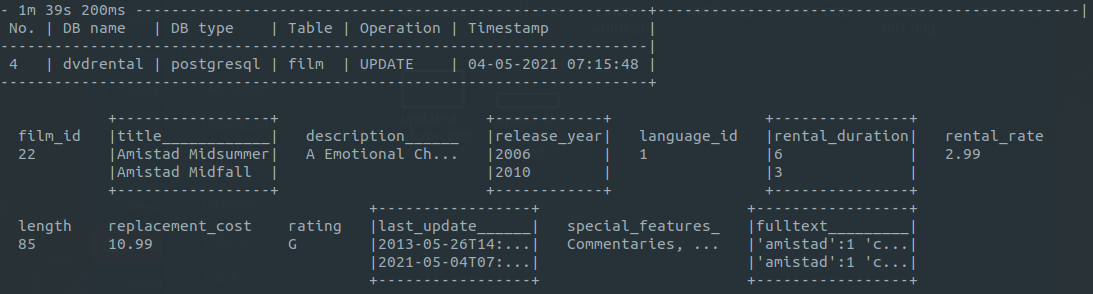
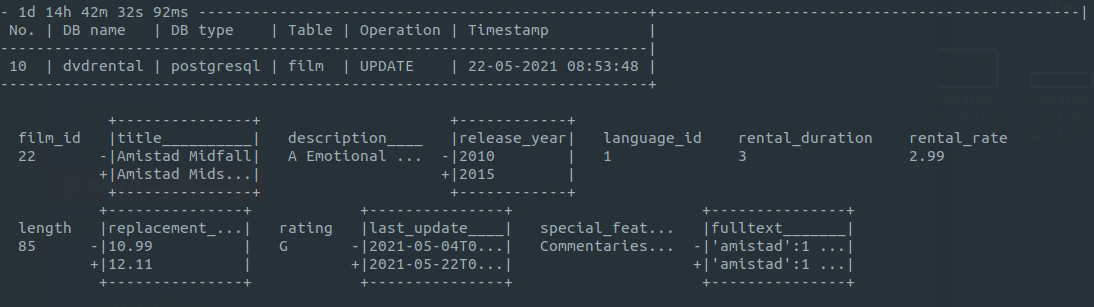
Update docs.

diff --git a/README.md b/README.md
@@ -19,8 +19,8 @@ database:
     user      : christoph
     password  : pwd1234
 settings:
-    operationsLimit: 10000
     operationsMinimum: 100
+    operationsLimit: 10000
 tables:
     - film
     - actor
@@ -40,8 +40,8 @@ database:
     password            : pwd1234
     driverPath          : /home/christoph/dbw/lib/ojdbc7.jar
 settings:
-    operationsLimit: 10000
     operationsMinimum: 100
+    operationsLimit: 10000
 tables:
     - FILM
     - ACTOR
@@ -59,9 +59,9 @@ The `schema` is specific for PostgreSQL and is set to `public` by default.
 The `driverPath` mapping is optional and is an easier way of adding a JDBC driver to the classpath; when specified, the relevant driver class will be loaded at runtime, without the need of using the `cp` flag in the `java` command. The provided value has to be an absolute path. 
 
 There are two available mappings in the `settings` dictionary:  
-`operationsLimit` - the maximum number of operations stored in the audit table. When this limit is reached, Dbw will automatically delete the given number of records from the audit table.  
-`operationsMinimum` - the number of operations that will remain in the audit table after deletion caused by the exceeded limit.  
-To further explain the mappings described above, if for example `operationsLimit` is set to 10,000 and the `operationsMinimum` is 100, the operations count in the audit table will have to reach 10,100 until Dbw deletes 10,000 first records specified in `operationsLimit`. Effectively the limit is 10,100, because we're taking into account the minimum number of records that must remain in the audit table. 
+`operationsMinimum` - the number of operations that will remain in the audit table after the deletion caused by the exceeded limit.  
+`operationsLimit` - the maximum number of operations stored in the audit table. When this limit is reached, Dbw will automatically delete the given number of records reduced by the `operationsMinimum` value the from the audit table.  
+To further explain the mappings described above, if for example `operationsLimit` is set to 10 000, the `operationsMinimum` is 100 and the registered operations count reaches 10 000, then 9 900 operations will be deleted from the audit table.   
 
 ## Usage
 
@@ -89,8 +89,9 @@ To close the application, press Ctrl+C.
 ### CLI
 
 ```
- -c,--config <arg>                        provide one or more comma-separated
-                                          paths to configuration files
+ -c,--config <arg>                        provide one or more
+                                          comma-separated paths to
+                                          configuration files
  -C,--clear-cache                         clear the given config's cache
  -d,--debug                               show exception classes and stack
                                           traces
@@ -102,7 +103,7 @@ To close the application, press Ctrl+C.
                                           whether there were changes in
                                           the watched databases (default:
                                           500ms)
- -l,--latest-changes <arg>                show the latest operations after
+ -l,--latest <arg>                        show the latest operations after
                                           the app starts. Accepts a number
                                           or a number combined with the
                                           seconds, minutes or hours
@@ -116,10 +117,12 @@ To close the application, press Ctrl+C.
                                           --latest-changes flag value and
                                           close the application (don't
                                           start the watchers)
- -p,--purge                               remove database audit table,
-                                          functions and triggers
+ -p,--purge                               remove all database objects
+                                          created by the application
  -q,--query                               show the SQL query for each
                                           operation (PostgreSQL only)
+ -R,--reuse-config                        reuse the last chosen config
+                                          file paths
  -t,--tables <arg>                        narrow down the tables you'd
                                           like to watch, accepts a single
                                           table or comma-separated list of
@@ -127,7 +130,8 @@ To close the application, press Ctrl+C.
  -T,--time-diff-separator-min-val <arg>   specify the time in milliseconds
                                           after which a time difference
                                           separator will appear between
-                                          two operation outputs (default: 5000)
+                                          operation outputs (default:
+                                          5000)
  -V,--verbose-diff                        show verbose output, i.e. with
                                           full before and after states of
                                           column values that exceeded the
@@ -205,11 +209,11 @@ The SQL query that caused the given operation is shown below the header table wh
 
 Next are the modified table's columns with their values, organized into rows. In case of an update:  
 ![updatedColumn](docs/updated_column.png)  
-From top to bottom there's the column name, value before, value after. 
+From top to bottom there's the column name, value before (`-` prefix), value after (`+` prefix). 
 
 Updated columns are bordered:  
 ![updatedVsNotUpdatedColumns](docs/updated_vs_not_updated_columns.png)  
-`release_year` column has been updated, and `description` has not.
+`replacement_cost` column has been updated, whereas the values of `length` and `rating` remained the same.
 
 #### Verbose diff
 
